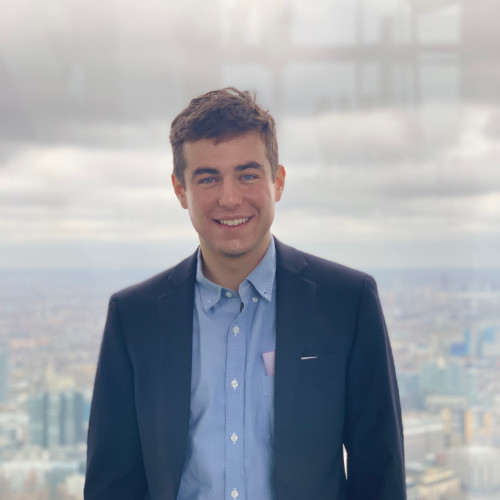
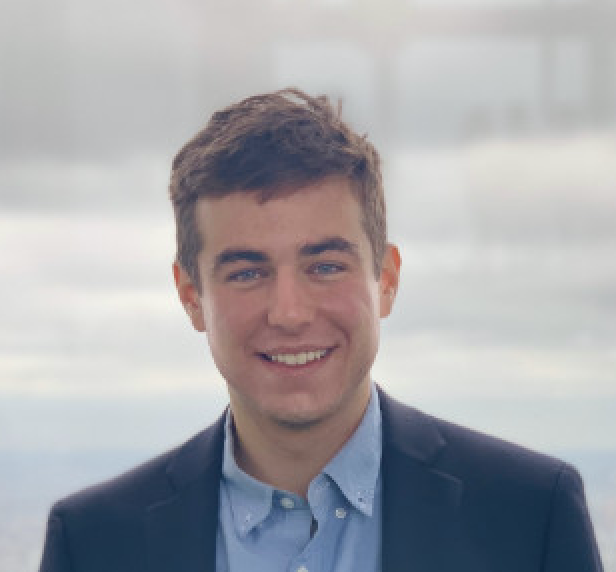
updated about

diff --git a/project/src/components/About.js b/project/src/components/About.js
@@ -12,8 +12,12 @@ import KateMorrison from '../images/meet-the-team/kate-morrison.jpeg'
 import FinnBergquist from '../images/meet-the-team/finn-bergquist.jpeg'
 import AhmedHameed from '../images/meet-the-team/ahmed-hameed.jpeg'
 import TheaKelsey from '../images/meet-the-team/thea-kelsey.jpeg'
+import TravisRase from '../images/meet-the-team/travis-rase.jpeg'
+import AnaisSarrazin from '../images/meet-the-team/anais-sarrazin.jpeg'
+import NellFusco from '../images/meet-the-team/nell-fusco.jpeg'
+import HenryIsaacson from '../images/meet-the-team/henry-isaacson.jpeg'
 
-
+//git images
 import git2 from '../images/meet-the-team/36675751.png'
 import git3 from '../images/meet-the-team/36677169.png'
 import git4 from '../images/meet-the-team/34076044.png'
@@ -35,7 +39,7 @@ function About() {
                     <p> Spatial cognition and indoor navigation expert, UX/UI, Assistive Technologies, natural language and VR/AR applications </p>
                 </div>
                 <div class="column">
-                    <img className="avatar" src={git2} alt="Student Anaïs Sarrazin"/>
+                    <img className="avatar" src={AnaisSarrazin} alt="Student Anaïs Sarrazin"/>
                     <h2><a href="https://www.github.com/anaissarrazin" className="link">Anaïs Sarrazin '20</a></h2>
                     <p> Computer Science and Math Major </p>
                 </div>
@@ -81,7 +85,7 @@ function About() {
 
         <div class="flex-container">
             <div class="column">
-                <img className="avatar" src={git2} alt="Student Nell Fusco '21"/>
+                <img className="avatar" src={NellFusco} alt="Student Nell Fusco '21"/>
                 <h2><a href="https://www.linkedin.com/in/nell-eleanore-fusco-b53412142/" className="link">Nell Fusco '21</a></h2>
                 <p> Computer Science and Government and Legal Studies double major with an interest in Software Engineering. </p>
             </div>
@@ -110,6 +114,11 @@ function About() {
                 <h2><a href="https://www.linkedin.com/in/kathleen-morrison-780372156/" className="link">Kate Morrison '20</a></h2>
                 <p> Mathematics major with an interest in data science and data visualization. </p>
             </div>
+            <div class="column">
+                <img className="avatar" src={TravisRase} alt="Student Travis Rase"/>
+                <h2><a href="https://www.linkedin.com/in/travis-rase-763b9514b/" className="link">Travis Rase '20</a></h2>
+                <p> Computer Science major and Physics minor deeply passionate about software engineering and becoming a trophy husband.  </p>
+            </div>
 
         </div>
 
@@ -118,7 +127,7 @@ function About() {
         <h2 class="team-title"> Alexa Voice Integration </h2>
         <div class="flex-container">
         <div class="column">
-                <img className="avatar" src={git2} alt="Student Henry Isaacson"/>
+                <img className="avatar" src={HenryIsaacson} alt="Student Henry Isaacson"/>
                 <h2><a href="https://www.linkedin.com/in/henry-isaacson-061b29196/" className="link">Henry Isaacson '22</a></h2>
                 <p> Computer Science Major with an interest in computational biology and genomics. </p>
         </div>
